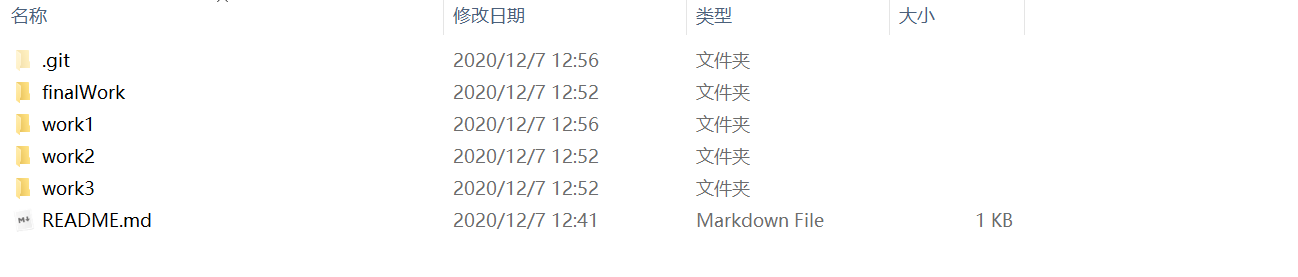
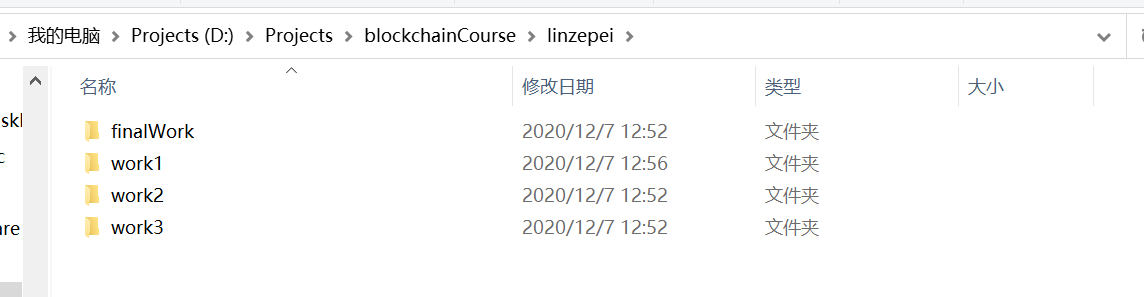
[Sher] 修改创建文件夹方式

diff --git a/README.md b/README.md
@@ -32,10 +32,11 @@
 创建文件夹规则为：
 
 ```shell
-├─finalWork #最后的大作业
-├─work1 #第一次作业
-├─work2 #第二次作业
-└─work3 #第三次作业
+├─linzepei
+    ├─finalWork #最后的大作业
+    ├─work1 #第一次作业
+    ├─work2 #第二次作业
+    └─work3 #第三次作业
 ```
 
 作业内容：
@@ -70,7 +71,7 @@ $ git checkout -b [你的学号]
 
 ![4](assets/4.png)
 
-4. 然后新建每次作业目录，按照`work1`/`work2`/`work3`/`finalWork`的方式进行创建：
+4. 然后新建每次作业目录，先创建你的名字的文件夹，如`linzepei`，然后按照`work1`/`work2`/`work3`/`finalWork`的方式进行创建：
 
 ![5](assets/5.png)
 
